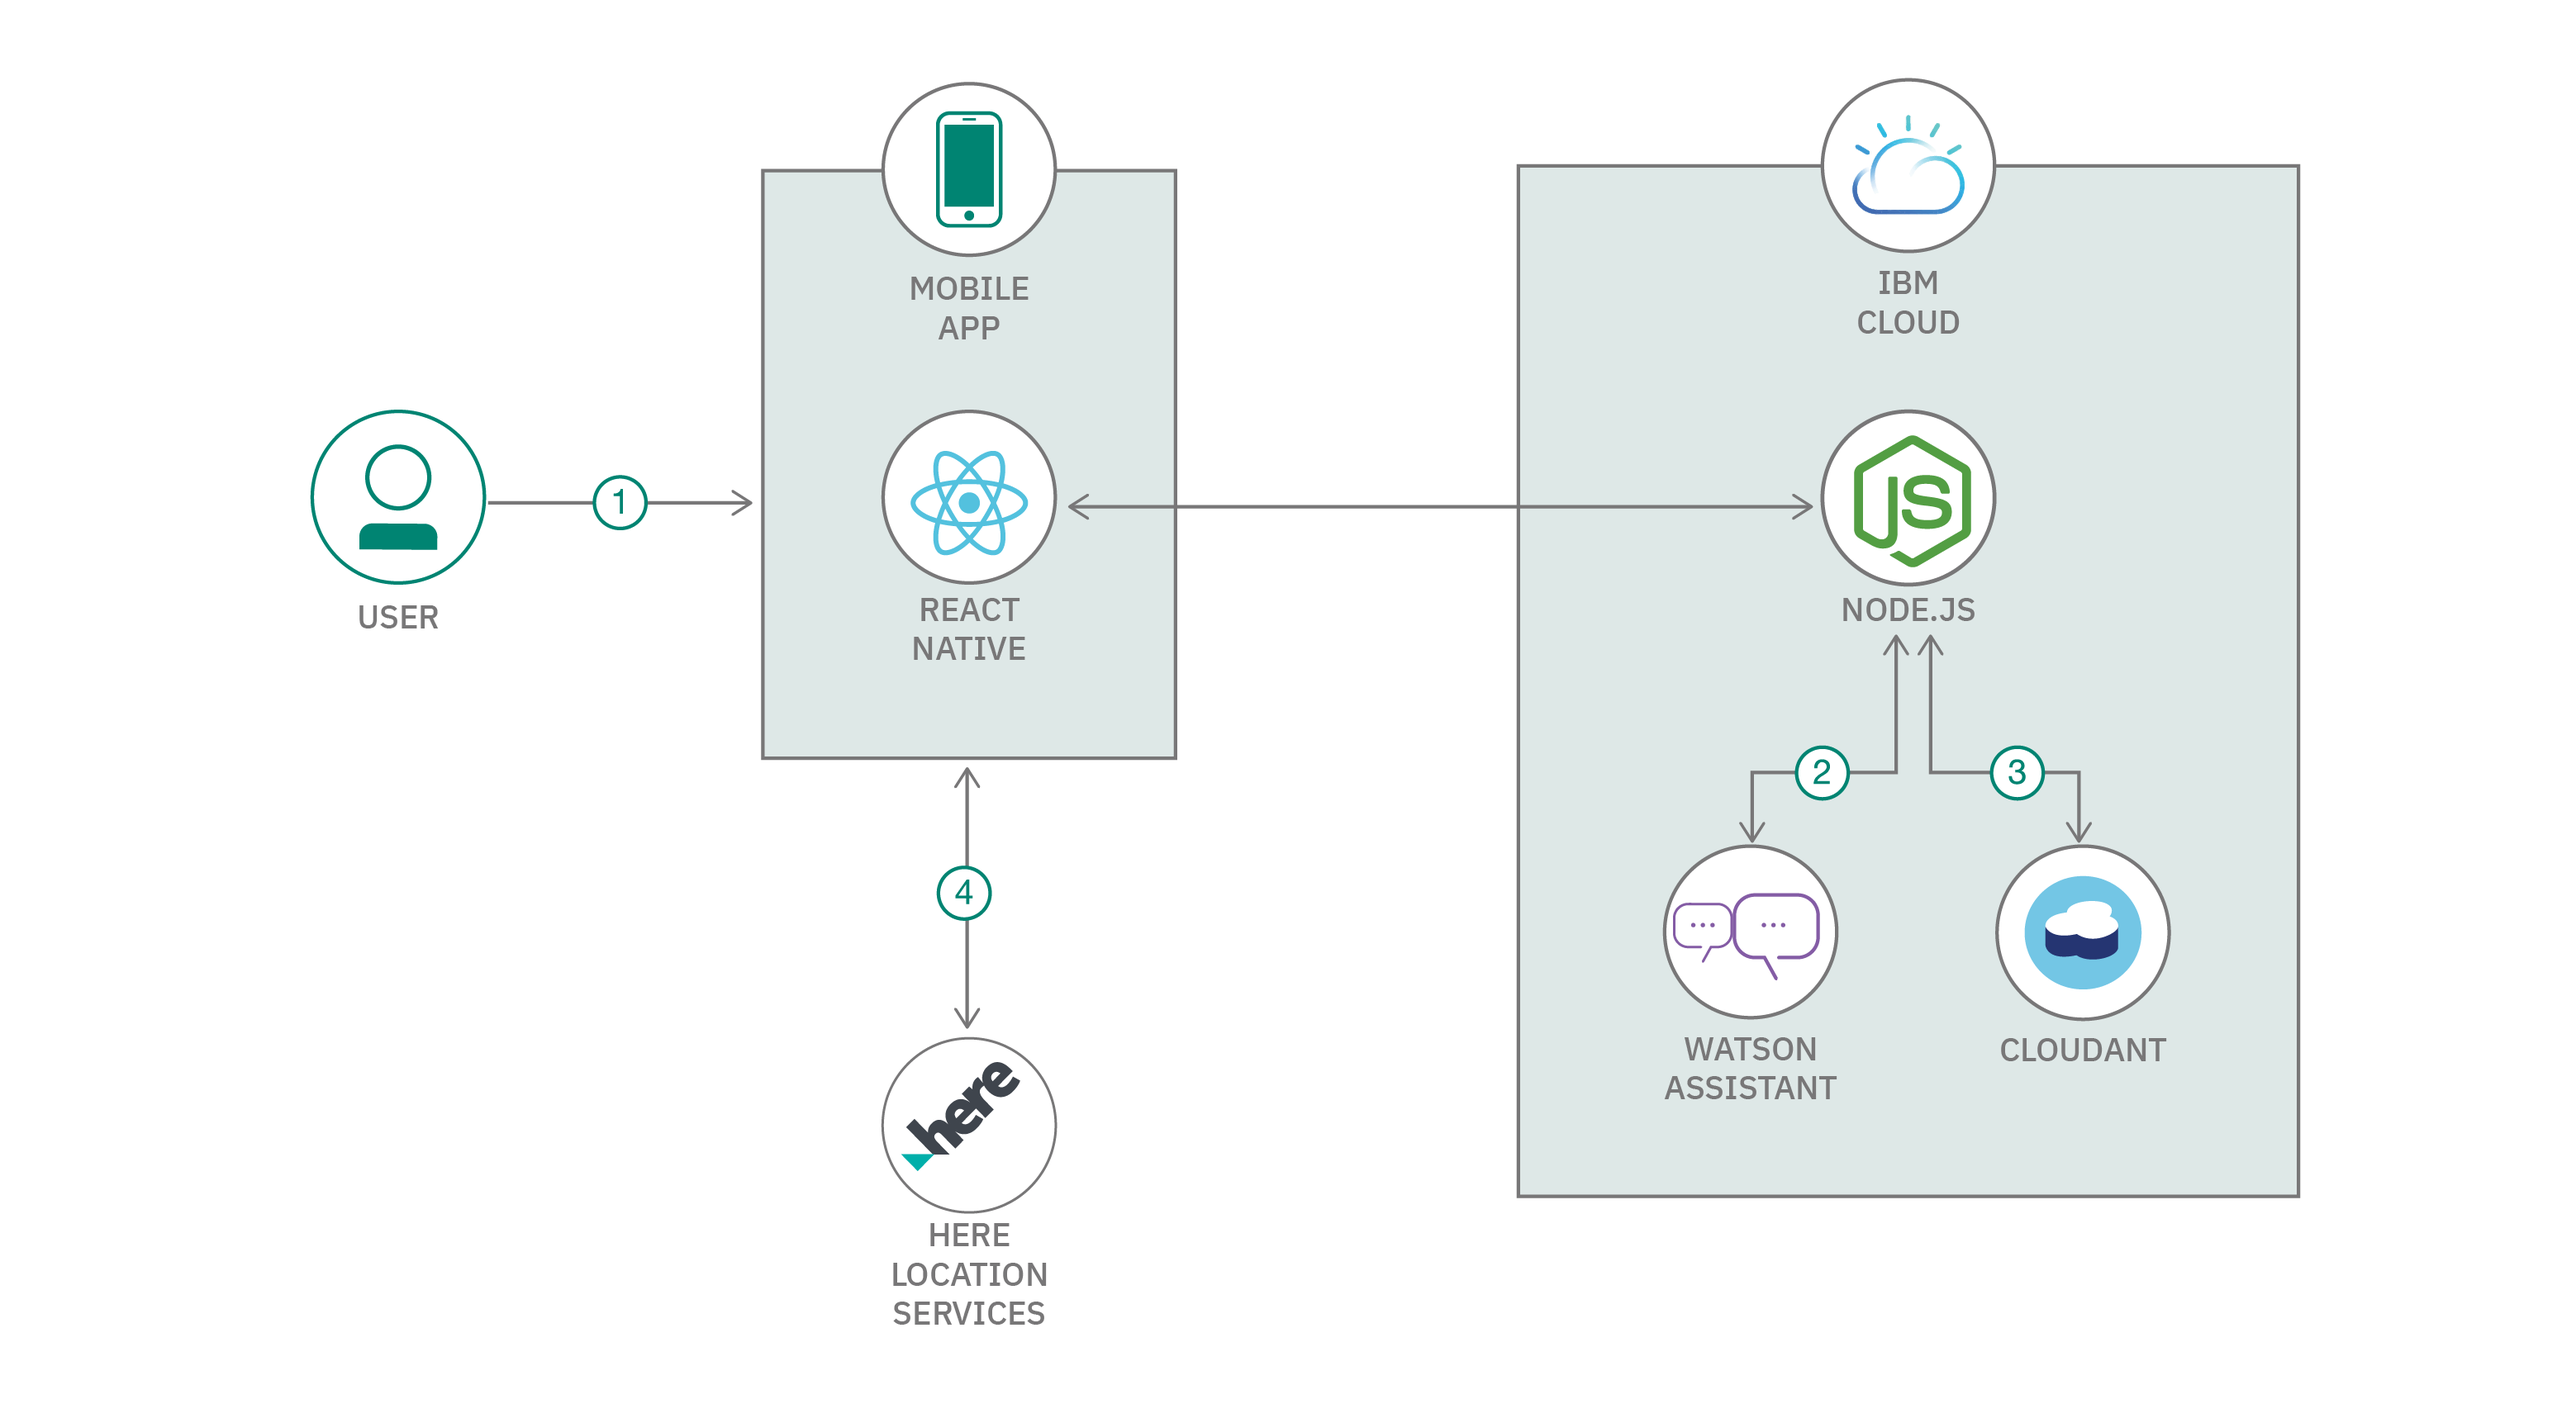
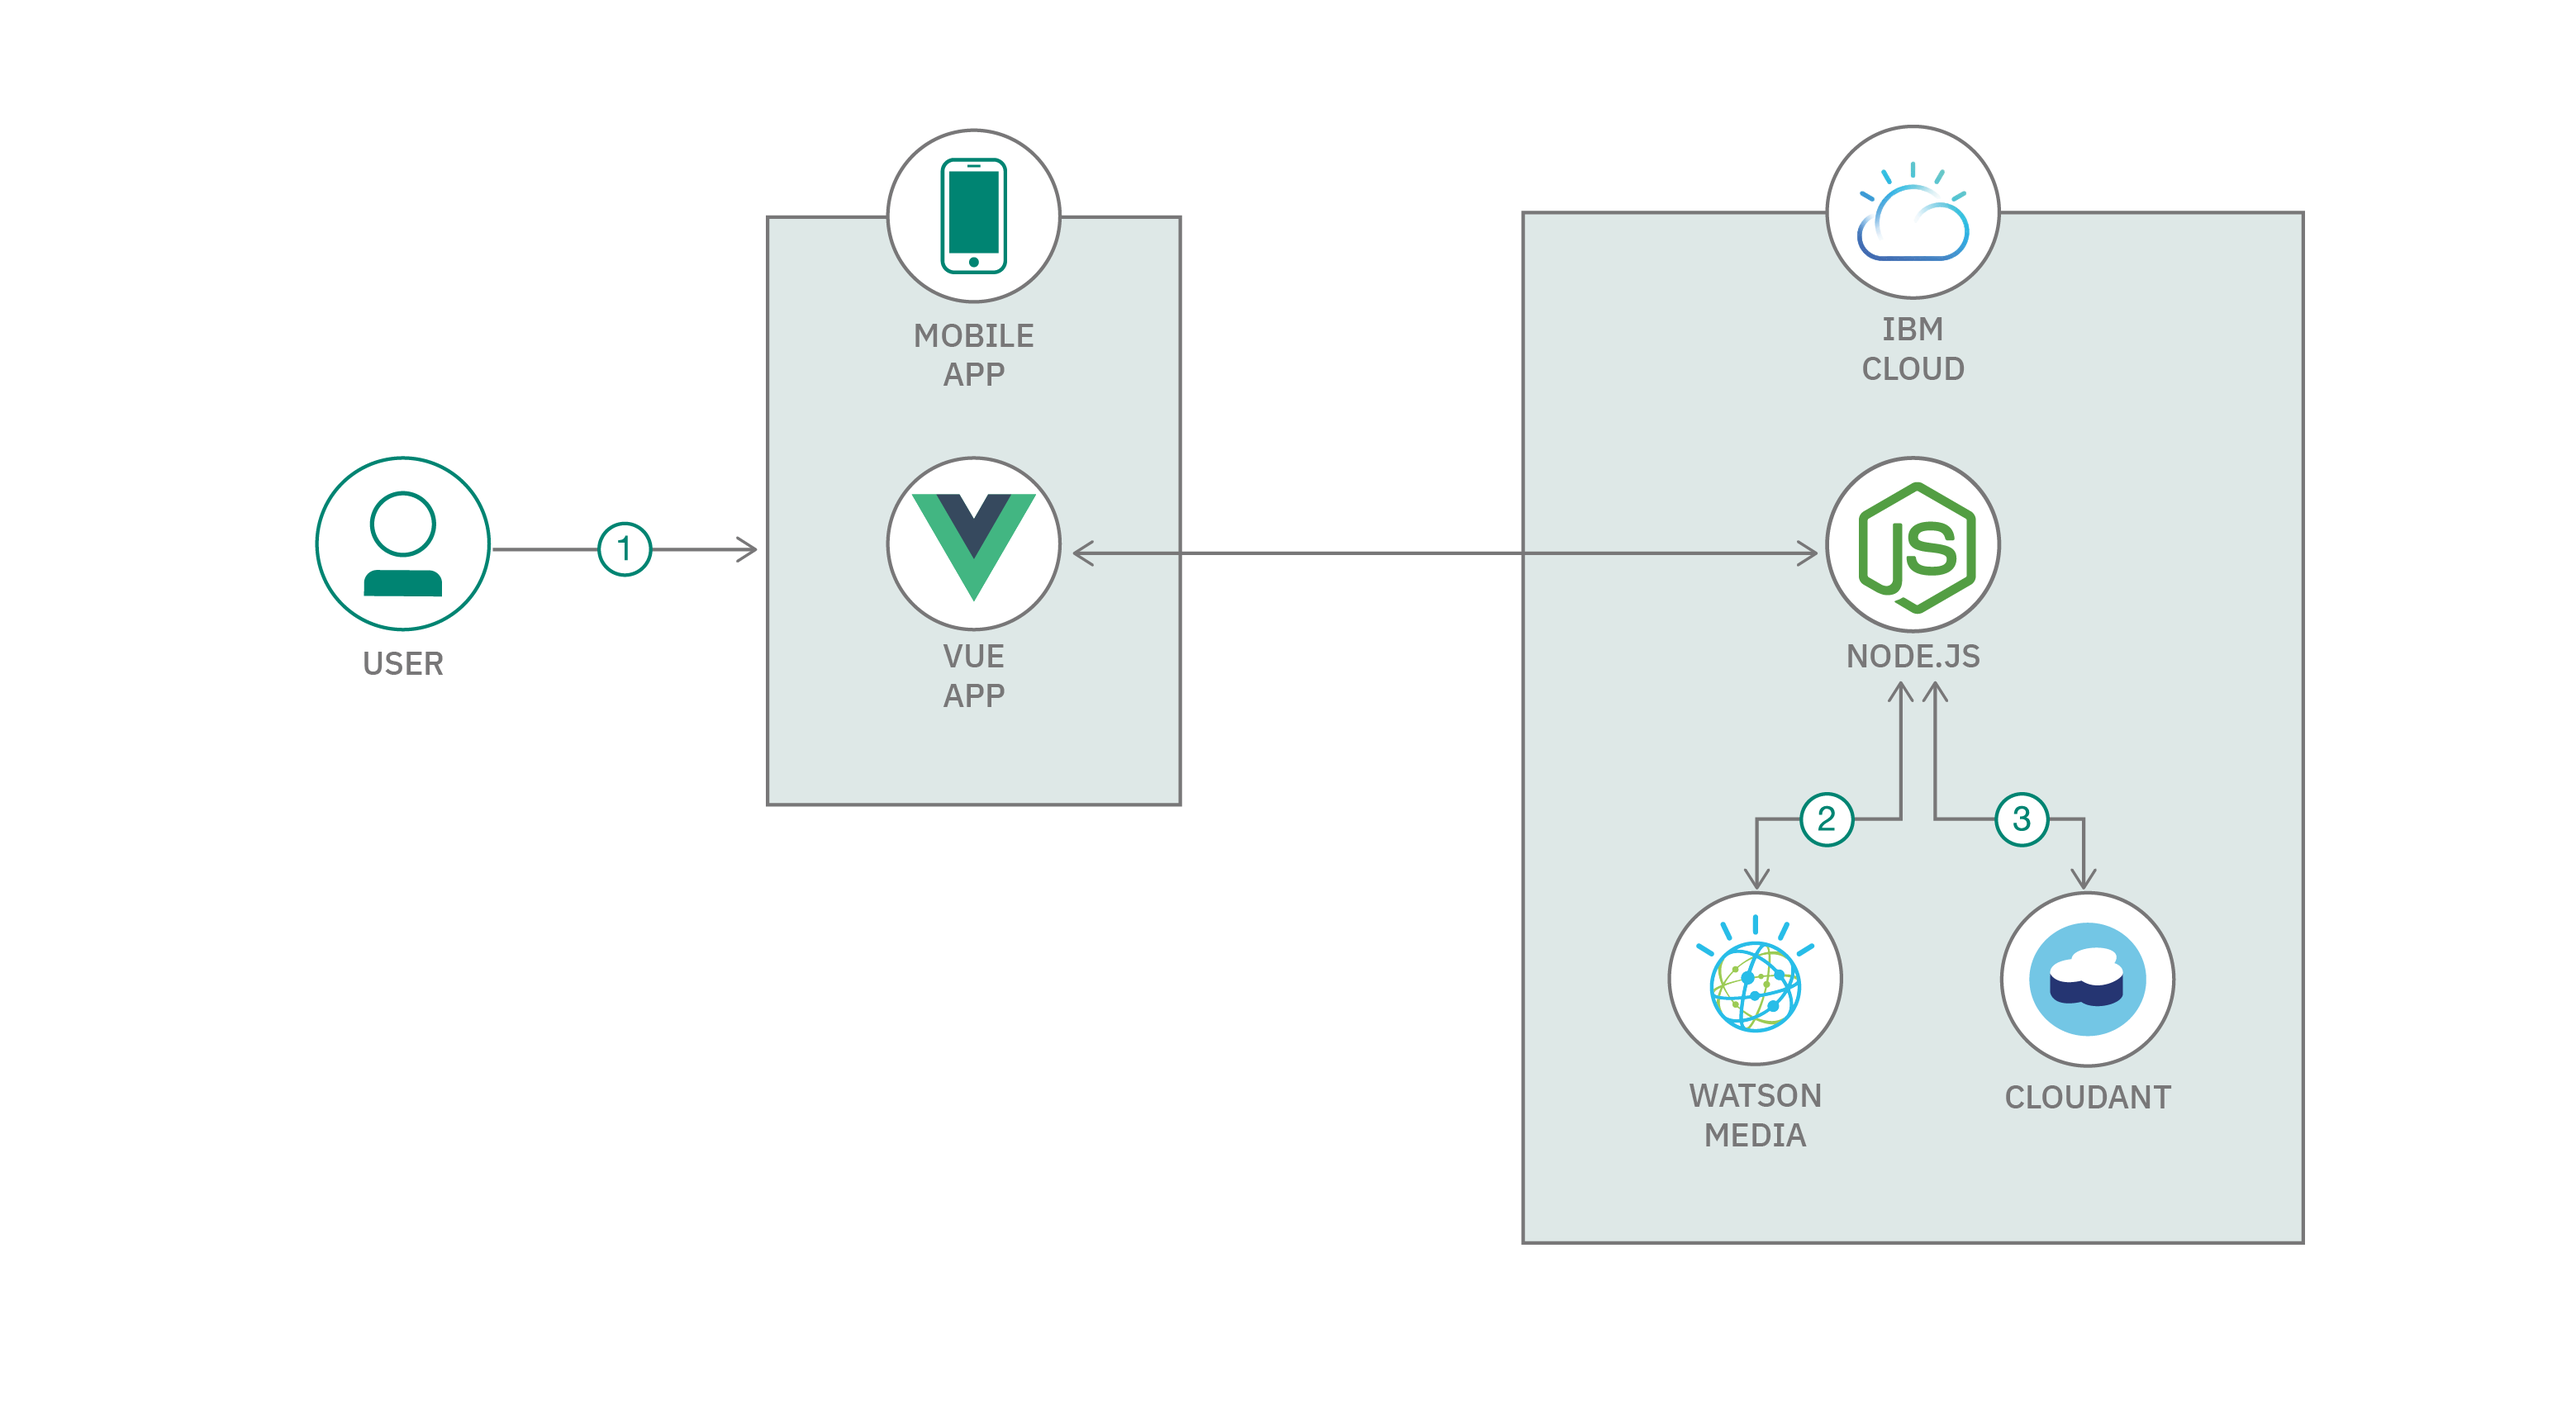
Further tidy up of the README

diff --git a/README.md b/README.md
@@ -65,13 +65,14 @@ responsible for the creation of the PR&L.
 
 ![architecture diagram](/images/high-level-architecture-diagram.png)
 
-[NB Diagram above is a placeholder, need to swap React for Vue, remove HERE, and swap Watson Media for Watson Assitant]
+[NB Diagram above is a placeholder, need to swap Cloudant for PostgreSQL and indicate this is not mobile only]
 
 This solution combines use of a media server (currently Watson Media) and data storage to hold the curated legislative artifcats, and the meta-data to link these together.
 
-1. The User launches the mobile app and can view the range of curated legislative artifcast that have been created.
-1. The User can post their own (video) story that may support or challenge the legislated artifacts
-1. The User can...
+1. The User launches the web app (on either a mobile or laptop/desktop device) and can view the range of curated legislative artifcast that have been created. The Vue app retrieves these by sending a REST request to the API server, which extracts them from the SQL database.
+1. The User can post their own (video) story that may support or challenge the legislated artifacts, which are uploaded to the API server, which directs these to the Watson Media services. The API server also stores a reference to the video location in the respective legislative artifact in the SQL database.
+1. The User can view other peoples' video stories which are retrieved by sending a REST request to the API server, which extracts them from the Watson Media services.
+1. [add more here?]
 
 There is a separate administrative interface that allows the site owners to curate the PR&L information, with the following attributes
 
@@ -85,7 +86,7 @@ There is a separate administrative interface that allows the site owners to cura
 - related articles or supporting documentation
 - a link to the actual full text of the PR&L  
 
-[HN - do we actually do any of the above yet?]
+[HN - do we actually do any of the above yet? Is this is in the same Vue app or a sepeate one?]
 
 ## Technologies
 
@@ -103,11 +104,7 @@ There is a separate administrative interface that allows the site owners to cura
 
 - Register for an [IBM Cloud](https://www.ibm.com/account/reg/us-en/signup) account.
 - Install and configure [IBM Cloud CLI](https://cloud.ibm.com/docs/cli?topic=cloud-cli-getting-started#overview).
-- Install [Vue CLI dependencies](hhttps://cli.vuejs.org/guide/installation.html) which should ensure you have the dependencies installed, namely
-    - [Node.js](https://nodejs.org/en/)
-    - [Watchman](https://facebook.github.io/watchman/docs/install)
-    - [Xcode](https://itunes.apple.com/us/app/xcode/id497799835?mt=12) if using macOS/iOS
-    - [CocoaPods](https://guides.cocoapods.org/using/getting-started.html) if using macOS/iOS
+- Install [Vue CLI dependencies](hhttps://cli.vuejs.org/guide/installation.html) 
 - Clone the [repository](https://github.com/henrynash/policy-truth-frontend).
 
 ### Steps
@@ -117,14 +114,12 @@ There is a separate administrative interface that allows the site owners to cura
 1. [Run the server](#3-run-the-server).
 1. [Run the mobile application](#4-run-the-mobile-application).
 
-### 1: Provision a Postgres instance
+### 1: Provision a PostgreSQL instance
 
-Log into the IBM Cloud and provision a [Postgres instance](https://cloud.ibm.com/catalog/services/databases-for-postgresql).
+The server requires and SQL server, and has been tested using PostgreSQL. You can deploy this in the IBM CLoud by logging into the IBM Cloud and provisioning a [Postgres instance](https://cloud.ibm.com/catalog/services/databases-for-postgresql). Note that this does require a paid plan, although if you are new to the IBM Cloud, it is likely your initial cloud credits will cover this for a significant time. Alternatively, you could deploy a your own PostgreSQL instance either locally or in a remote VM or container. In this case, ensure you obatin the equivilent credientials to those described below.
 
-[HN - These are not accurate - also, there is no Postgres lite tier!! eeek]
-
-1. Choose your Databases for Postgres plan. You should choose an appropriate region, give the service a name, and it is recommended you choose **Use only IAM** under **Available authentication methods**. You can leave the other settings with their defaults. Click the blue **Create** button when ready.
-1. Once your Postgres instance has been created, you need to create a service credential that the CIR API Server can use to communicate with it. By selecting your running Postgres instance, you can choose **Service credentials** from the left-hand menu. Create a new service credential and give it a name (it doesn't matter what you call it).
+1. Choose your Databases for Postgres plan. You should choose an appropriate region, give the service a name. You can leave the other settings with their defaults. Click the blue **Create** button when ready.
+1. Once your Postgres instance has been created, you need to create a service credential that the API Server can use to communicate with it. By selecting your running Postgres instance, you can choose **Service credentials** from the left-hand menu. Create a new service credential and give it a name (it doesn't matter what you call it).
 1. Once created, you can display the credentials by selecting **view service credentials**, and then copy the credential, so you are ready to paste it into the code of the API server in Step 3.
 
 ### 2. Set up an instance of Watson Media
@@ -155,7 +150,7 @@ To set up and launch the server application:
     1. Launch the server application locally or deploy to IBM Cloud:
         - To run locally:
             1. Start the application: `npm start`.
-            1. The server can be accessed at <http://localhost:3000>.
+            1. The server can be accessed at <http://localhost:3000>
         - To deploy to IBM Cloud:
             1. Edit the **name** value in the `manifest.yml` file to your application name (for example, _my-app-name_).
             1. Log in to your IBM Cloud account using the IBM Cloud CLI: `ibmcloud login`.
@@ -163,34 +158,25 @@ To set up and launch the server application:
             1. Push the app to IBM Cloud: `ibmcloud app push`.
             1. The server can be accessed at a URL using the **name** given in the `manifest.yml` file (for example,  <https://my-app-name.bluemix.net>).
 
+Once the server is running, you can test it be accessing the openAPI docs interface to explore and try out the API using the `/api-docs` endpoint. For example, if running locally <http://localhost:3000/api-docs>, which should look something like this
+
+![api-docs](/images/api-docs.png)
+
 ### 4. Run the mobile application
 
 To run the mobile application (using the Xcode iOS Simulator):
 
-1. Go to the `client/mobile-app` directory of the cloned repo.
-1. Copy the `.env.example` file in the `client/mobile-app` directory, and create a file named `.env`.
+1. Go to the `client` directory of the cloned repo.
+1. Copy the `.env.example` file to a new file named `.env`.
 1. Edit the newly created `.env` file:
-    - Update the `SERVER_URL` with the URL to the server app launched in the previous step.
+    - Update the `SERVER_URL` with the URL to the server app launched in the previous step (for example <http://localhost:3000>).
 1. From a terminal:
-    1. Go to the `client/mobile-app` directory.
     1. Install the dependencies: `npm install`.
     1. Install the dependencies: `npm run serve`.
-    1. Go to the `ios` directory: `cd ios`.
-    1. Install pod dependencies: `pod install`.
-    1. Return to the `mobile-app` directory: `cd ../`.
-    1. Launch the app in the simulator: `npm run ios`. You should be running at least iOS 13.0.
-    1. The first time you launch the simulator, you should ensure that you set a Location in the Features menu.
+    1. Once the deevlopment server is running, you should be able to access the client from the URL indicated (typicall http://localhost:8080/).
+    1. If you are running a mobile simulator, you can also access the same url. For example, in the ios simulator, the screen would look something like this
 
-With the application running in the simulator, you should be able to navigate through the various screens:
-
-[HN - replace the items below with our own screen shots]
-
-![Intro Screen](/images/0-screen-home.png)
-![Donate Screen](/images/1-screen-donate.png)
-![Search Screen](/images/2-screen-search.png)
-![Chat Screen](/images/5-screen-chat.png)
-![Map1 Screen](/images/3-screen-map.png)
-![Map2 Screen](/images/4-screen-map.png)
+![Intro Screen](/images/first-screen.png)
 
 ## Resources
 
